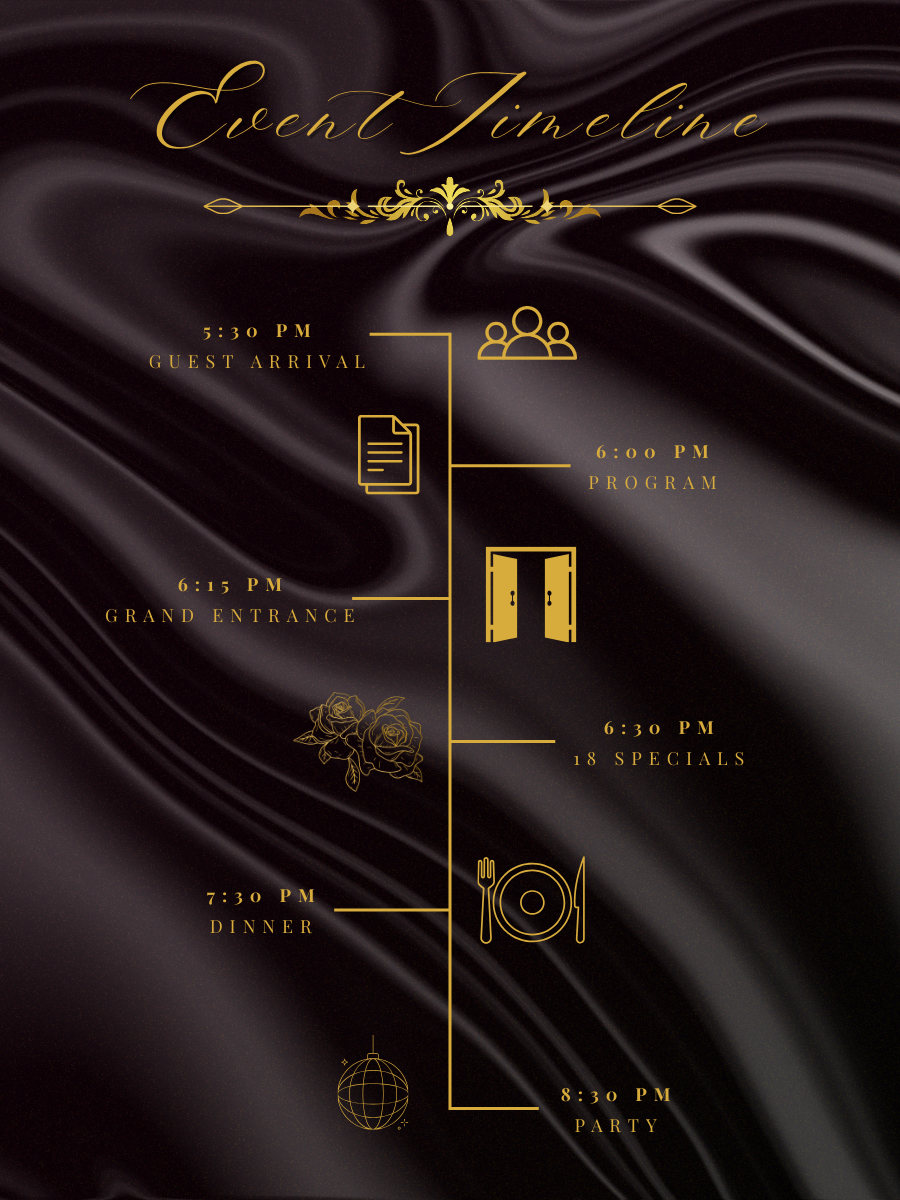
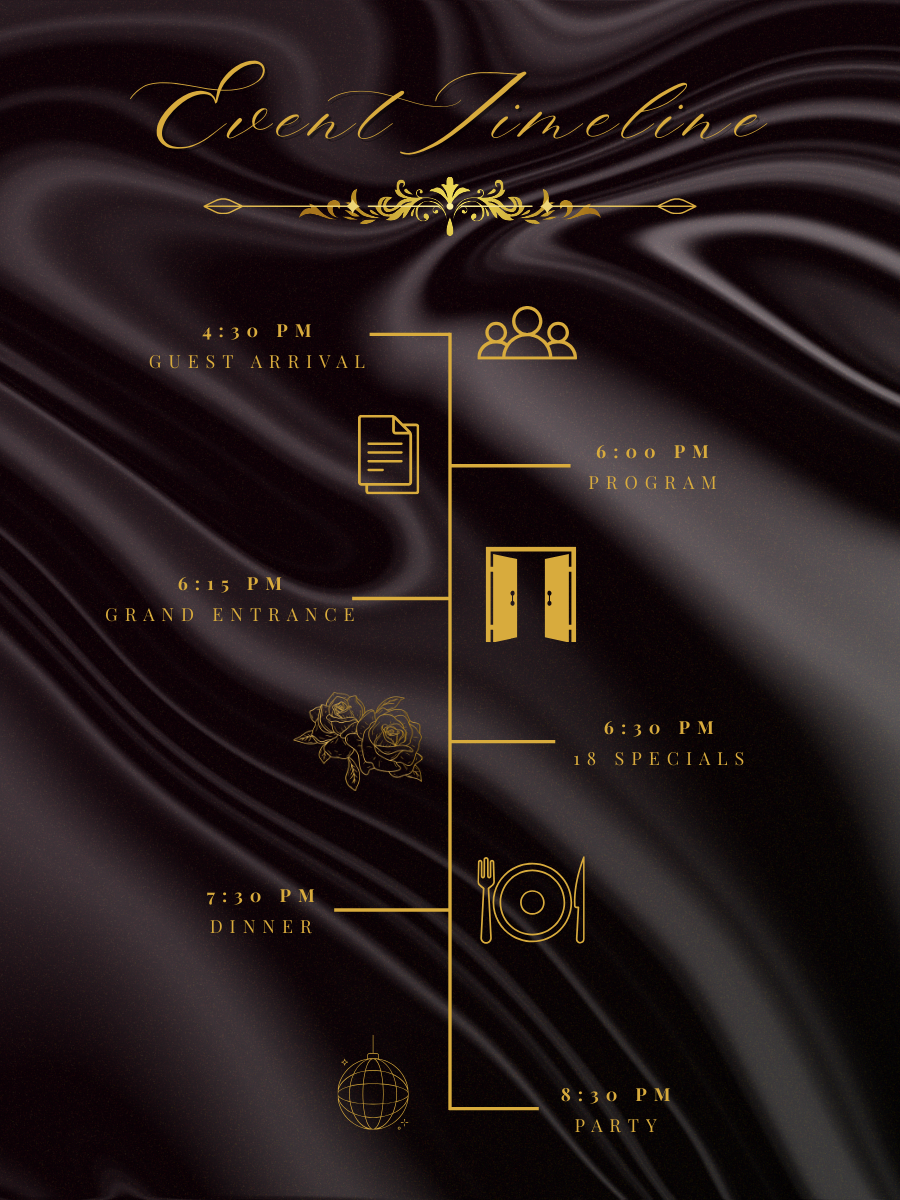
Changes

Changed region(s): [[0.3422, 0.5858, 0.4667, 0.6475], [0.4978, 0.37, 0.5289, 0.4008]]

diff --git a/index.html b/index.html
@@ -35,8 +35,8 @@
 
         <div class="venue-content">
             <div class="venue-pictures">
-                <img src="https://scontent.fmnl30-1.fna.fbcdn.net/v/t39.30808-6/490741850_2120336928477790_2595716069425458020_n.jpg?stp=dst-jpg_s590x590_tt6&_nc_cat=102&ccb=1-7&_nc_sid=833d8c&_nc_eui2=AeERJ5K637JeLTg-R7wL6NQI8KOdxFIB9Azwo53EUgH0DDEsETEDBQ3UtTW36OlfagHaM-Ea4Cz9SATp40dTc3ah&_nc_ohc=7DuySmR2KPoQ7kNvwFKmPeo&_nc_oc=AdnEwXFf7CpyHGD3DpZlbMRDqgNSOTdVtiK50YcDFHNRNtyWucmr4ibAG3T34fOe7Ok&_nc_zt=23&_nc_ht=scontent.fmnl30-1.fna&_nc_gid=wlIdSYrZdsuUzdPgI8FrSw&oh=00_AflAtQXcIBYcetdEEaAlCb-xyeVz0xQ6m98lB3ucGSuNvQ&oe=69545C6B" alt="Palazzo Antonio Exterior 1">
-                <img src="https://scontent.fmnl30-1.fna.fbcdn.net/v/t39.30808-6/490385373_2120337761811040_1923040341073300391_n.jpg?_nc_cat=102&ccb=1-7&_nc_sid=833d8c&_nc_eui2=AeEp7plkNUEKc-Jy6EKJ6e8okJ70pGap0WGQnvSkZqnRYbmAwV8-URemnHUCpE2wV9D4oj8Qi5qWBDPi9d2Bqk0n&_nc_ohc=BQiMejK8CZgQ7kNvwGYi0on&_nc_oc=AdlM7SDaSmNTHRWY3l-c7Zd8t6cEP4DCKsCIUdPuWI2YeVkcwQiHMbCUMYwIV9J4ghY&_nc_zt=23&_nc_ht=scontent.fmnl30-1.fna&_nc_gid=u88Pz5J9p71FXqyty78aBg&oh=00_Afn5yYsf7MtpPrwxTNh3uF9eYS0jrJrbAsQ3RNcYyUeKIQ&oe=695450EF" alt="Palazzo Antonio Exterior 2">
+                <img src="Venue-1.jpg" alt="Palazzo Antonio Exterior 1">
+                <img src="Venue-2.jpg" alt="Palazzo Antonio Exterior 2">
             </div>
             <iframe src="https://www.google.com/maps/embed?pb=!1m18!1m12!1m3!1d3872.034893065412!2d121.1466555!3d13.9565281!2m3!1f0!2f0!3f0!3m2!1i1024!2i768!4f13.1!3m3!1m2!1s0x33bd6ced4c096b13%3A0x93b79c17047f7722!2sPalazzo%20Antonio!5e0!3m2!1sen!2sph!4v1766673599598!5m2!1sen!2sph"  style="border:0;" allowfullscreen="" loading="lazy" referrerpolicy="no-referrer-when-downgrade"></iframe>
         </div>
